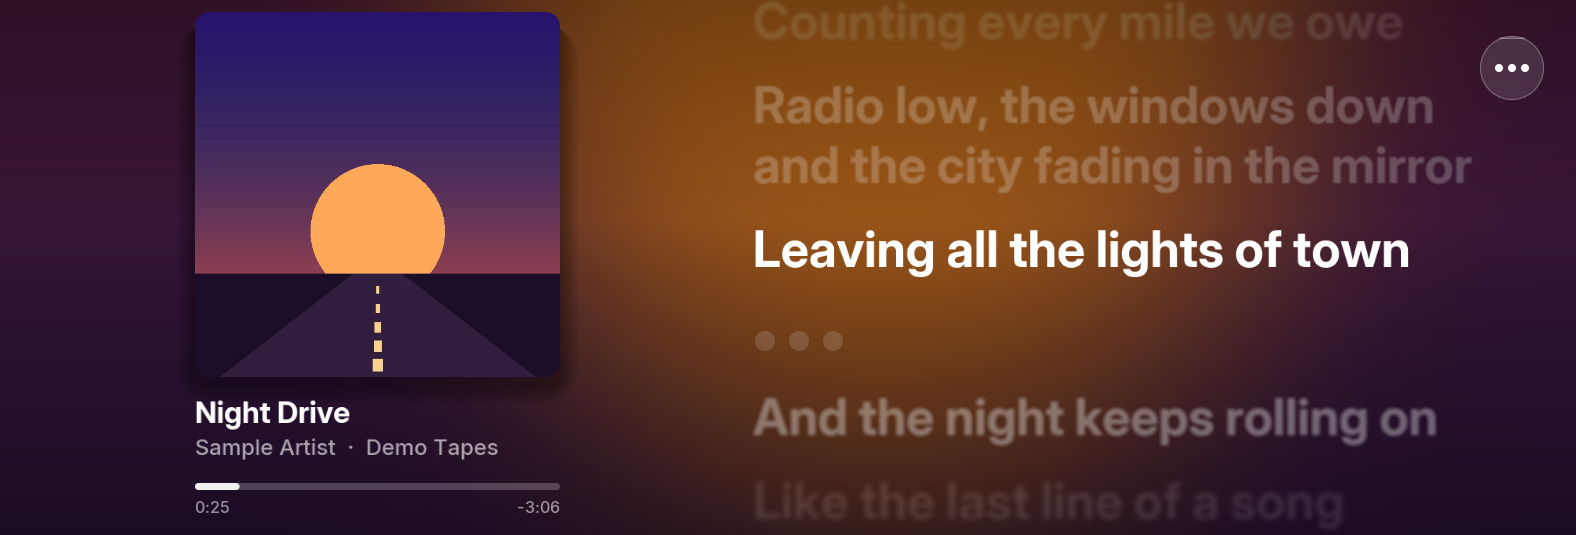
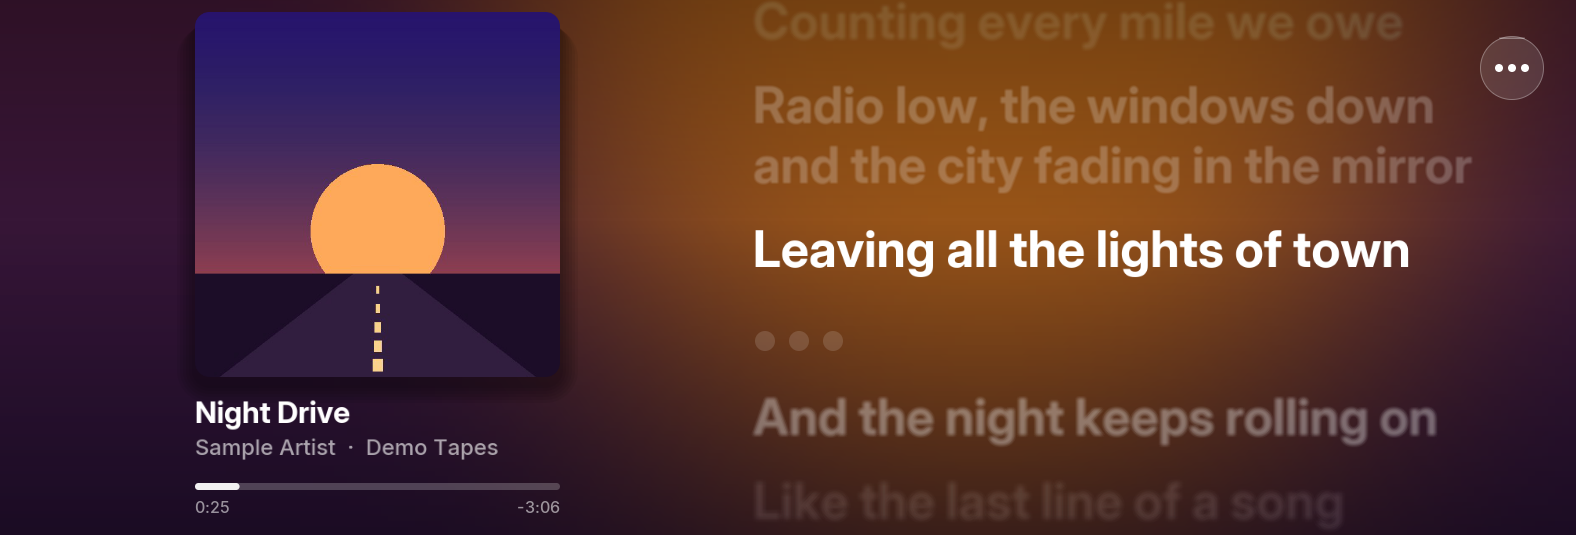
Car Lyrics 0.6.5: Slow drift is visible: the background layers wander ~14 % of the screen and zoom in and out a little over 30-50 s (was 7 % over about a minute, which read as still)

Changed region(s): [[0.7462, 0.0, 0.9638, 0.7776]]

diff --git a/apps/aref_carlyrics/main.js b/apps/aref_carlyrics/main.js
@@ -35,7 +35,7 @@ const ART = require('./artwork');
 const http = require('./http');
 const HW = require('./kit/homewidget');
 
-const VERSION = '0.6.4';
+const VERSION = '0.6.5';
 const HOMEPAGE = 'https://github.com/arefahmad/idrive7-apps';
 const W = 1600, H = 520;
 const IFACES = [
@@ -287,13 +287,16 @@ mgu.run({
                     // two blurred layers of the cover drifting past each other, slowly, as Apple Music's background flows
                     // Settings > Background motion: still (default) or a slow drift, as Apple Music's
                     const d = settings.get('bg_motion') === 'drift' && cur && cur.playing ? now / 1000 : 0;
+                    // drift: each layer wanders ~14 % of the screen and breathes (zooms 6 % in and out) over 30-50 s, the
+                    // two at different speeds, so the colours visibly flow (Nov 21: 7 % over ~1 min read as still)
                     const layer = (id, sc, fx, fy, ph) => {
-                        const bw = W * sc, bh = (fullH + 2 * OVER) * sc;   // tall enough to cover past the page (full screen)
-                        cv.image(id, (W - bw) / 2 + Math.sin(d / fx + ph) * 0.07 * W, (fullH - bh) / 2 + Math.cos(d / fy + ph) * 0.07 * fullH, bw, bh);
+                        const z = sc * (1 + 0.06 * Math.sin(d / (fx * 1.3) + ph));
+                        const bw = W * z, bh = (fullH + 2 * OVER) * z;   // tall enough to cover past the page (full screen)
+                        cv.image(id, (W - bw) / 2 + Math.sin(d / fx + ph) * 0.14 * W, (fullH - bh) / 2 + Math.cos(d / fy + ph) * 0.12 * fullH, bw, bh);
                     };
-                    layer(BG_ID, 1.25, 9, 11, 0);
-                    cv.alpha(0.5);
-                    layer(BG2_ID, 1.45, 13, 7, 2);
+                    layer(BG_ID, 1.4, 5, 6.5, 0);
+                    cv.alpha(0.55);
+                    layer(BG2_ID, 1.6, 7.5, 4.5, 2);
                     cv.alpha(1);
                 } else {
                     cv.gradientRect(x0, 0, W - x0, fullH, [[0, P.top], [1, P.bottom]]);
